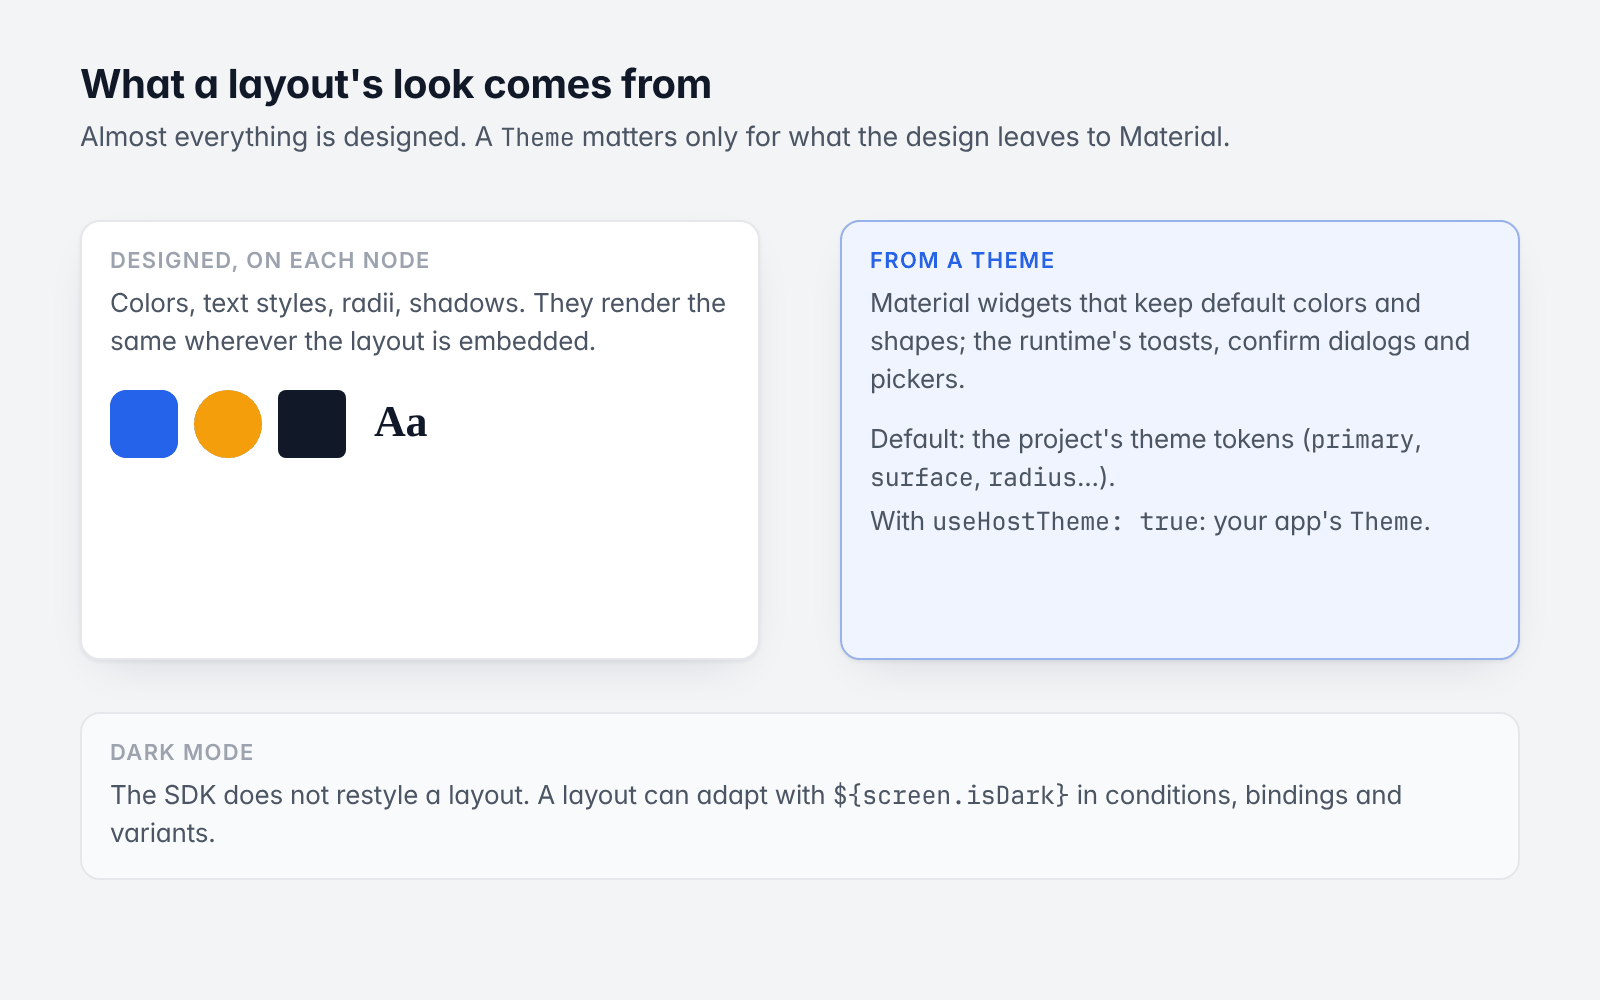
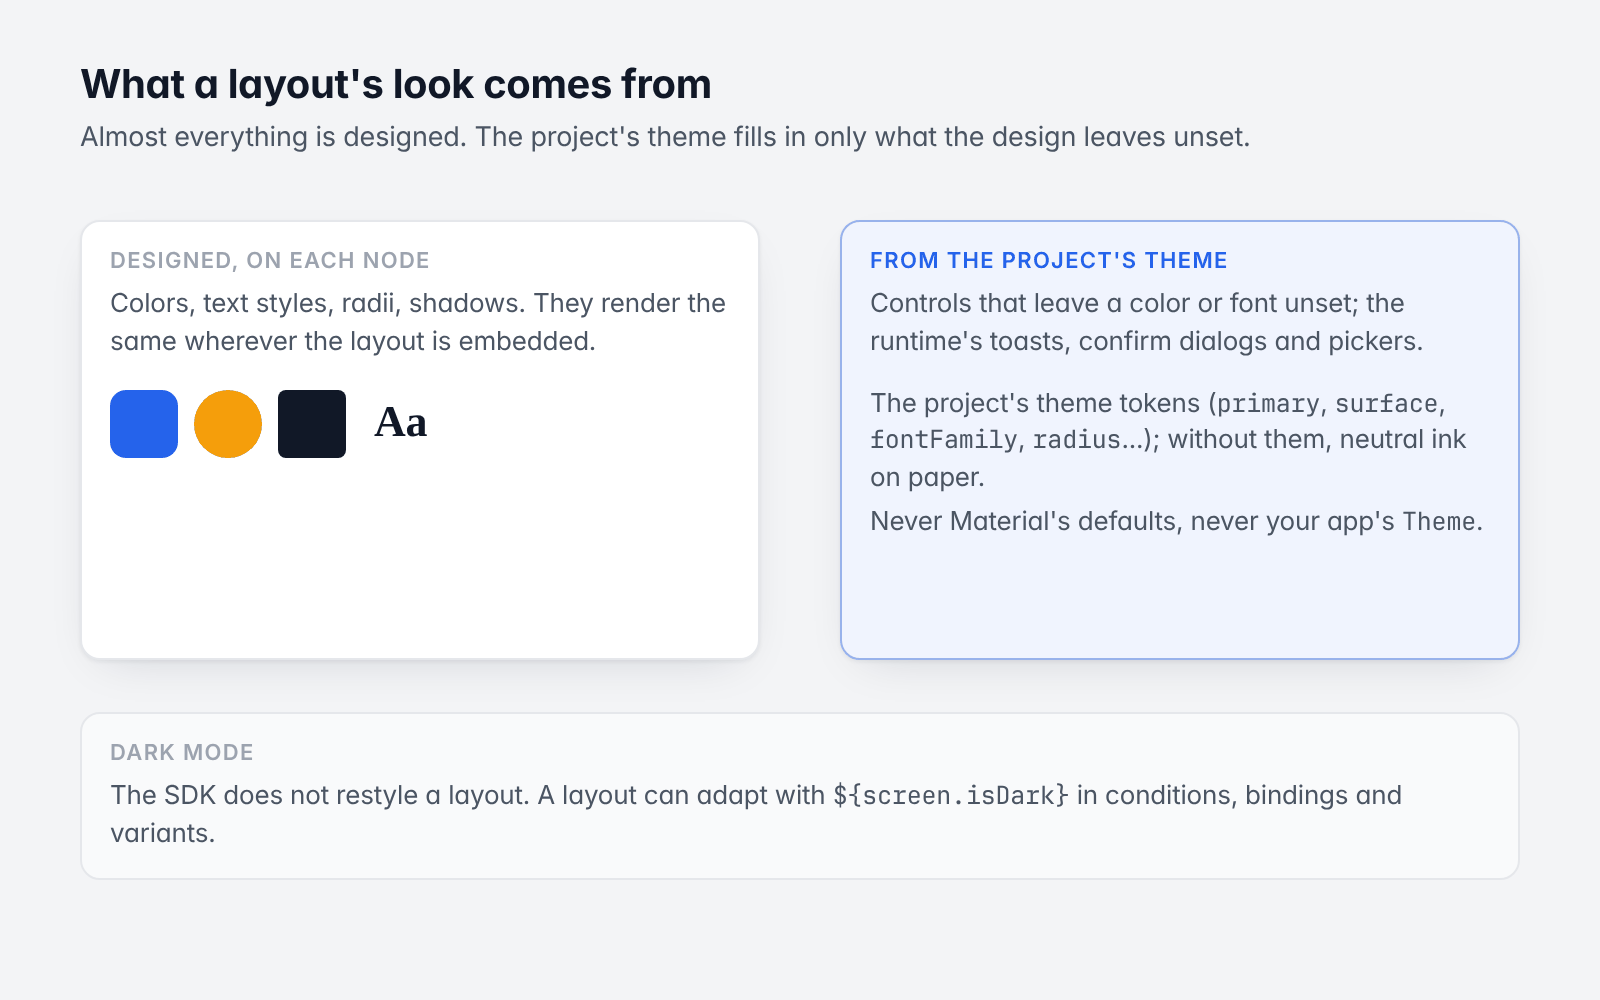
Docs: controls take the project's theme, neutral without one; changelog
Claude-Session: https://claude.ai/code/session_019VxYXZ8BzY8THaUBbQA8TM

Changed region(s): [[0.5312, 0.248, 0.9062, 0.527], [0.2812, 0.124, 0.7812, 0.155]]

diff --git a/docs/guide/images/_scenes/11-theming-and-fonts.html b/docs/guide/images/_scenes/11-theming-and-fonts.html
@@ -6,12 +6,12 @@
 
 <!-- Hero: what a layout's look comes from -->
 <tut-stage name="hero" w="800" h="500" bg="solid">
-  <div class="hd"><div class="t">What a layout's look comes from</div><div class="s">Almost everything is designed. A <span class="m">Theme</span> matters only for what the design leaves to Material.</div></div>
+  <div class="hd"><div class="t">What a layout's look comes from</div><div class="s">Almost everything is designed. The project's theme fills in only what the design leaves unset.</div></div>
   <div class="dn" style="left:40px;top:110px;width:340px;height:220px"><div class="k">Designed, on each node</div><div class="d">Colors, text styles, radii, shadows. They render the same wherever the layout is embedded.</div>
     <div style="display:flex;gap:8px;margin-top:14px"><span style="width:34px;height:34px;border-radius:8px;background:#2563EB"></span><span style="width:34px;height:34px;border-radius:17px;background:#F59E0B"></span><span style="width:34px;height:34px;border-radius:4px;background:#111827"></span><span style="font-size:22px;font-weight:700;font-family:Georgia,serif;margin-left:6px">Aa</span></div></div>
-  <div class="dn blue" style="left:420px;top:110px;width:340px;height:220px"><div class="k">From a Theme</div><div class="d">Material widgets that keep default colors and shapes; the runtime's toasts, confirm dialogs and pickers.</div>
-    <div class="d" style="margin-top:12px">Default: the project's theme tokens (<span class="m">primary</span>, <span class="m">surface</span>, <span class="m">radius</span>...).</div>
-    <div class="d">With <span class="m">useHostTheme: true</span>: your app's <span class="m">Theme</span>.</div></div>
+  <div class="dn blue" style="left:420px;top:110px;width:340px;height:220px"><div class="k">From the project's theme</div><div class="d">Controls that leave a color or font unset; the runtime's toasts, confirm dialogs and pickers.</div>
+    <div class="d" style="margin-top:12px">The project's theme tokens (<span class="m">primary</span>, <span class="m">surface</span>, <span class="m">fontFamily</span>, <span class="m">radius</span>...); without them, neutral ink on paper.</div>
+    <div class="d">Never Material's defaults, never your app's <span class="m">Theme</span>.</div></div>
   <div class="dn gray" style="left:40px;top:356px;width:720px"><div class="k">Dark mode</div><div class="d">The SDK does not restyle a layout. A layout can adapt with <span class="m">${screen.isDark}</span> in conditions, bindings and variants.</div></div>
 </tut-stage>
 

diff --git a/docs/guide/11-theming-and-fonts.md b/docs/guide/11-theming-and-fonts.md
@@ -2,43 +2,51 @@
 
 [Guide](README.md) · Previous: [Scripting](10-scripting.md) · Next: [Custom widgets and extending](12-custom-widgets.md)
 
-![Designed colors, text styles, radii and shadows on each node, versus a Theme for Material defaults and the runtime's own UI](images/11-theming-and-fonts/hero.png)
+![Designed colors, text styles, radii and shadows on each node, versus the project's theme for what the design leaves unset](images/11-theming-and-fonts/hero.png)
 
-*Most of a layout's look is designed; a Theme covers the rest.*
+*Most of a layout's look is designed; the project's theme covers the rest.*
 
 ## What a layout's look comes from
 
 Almost everything you see in a layout is designed: each node carries its own colors, text styles, radii and
-shadows, and renders with them wherever it is embedded. A Flutter `Theme` matters only for what the design leaves
-to Material:
+shadows, and renders with them wherever it is embedded. The project's theme matters only for what the design
+leaves unset:
 
-- Material widgets in the layout that keep default colors and shapes (buttons, switches, text fields, app bars);
-- the runtime's own UI: toasts, confirmation dialogs, date pickers.
+- controls that leave a color, a font or a shape unset (buttons, chips, switches, sliders, text fields,
+  pickers, tabs, navigation bars);
+- the runtime's own UI: toasts, confirmation dialogs, date and time pickers, menus, tooltips.
 
-## The project's theme (default)
+Controls take their colors and fonts from the project's theme. Without a theme they are neutral: ink on paper
+(near-black on white, near-white on near-black in dark mode) and the greys between, in no font family of their
+own. Nothing is inherited from Material's defaults (no purple, no tints, no ripples, no elevation, no Roboto) or
+from your app's `Theme`.
+
+## The project's theme
 
 A project has theme tokens, published with it: `primary`, `onPrimary`, `surface`, `onSurface`, `error`,
-`success`, `warning`, `fontFamily`, `titleFontFamily`, `radius` and `buttonRadius`. By default each
-`CodelesslyWidget` wraps its layout in a `Theme` built from them (Flutter's default `ThemeData` with the tokens
-over it), so a layout looks the same in every app. Your app's theme is not used inside the layout and is not
-changed outside it.
+`success`, `warning`, `fontFamily`, `titleFontFamily`, `radius` and `buttonRadius`. Each `CodelesslyWidget`
+wraps its layout in a `Theme` built from them, where every color role is a token or derived from one:
+
+| Role | From |
+|---|---|
+| surface | `surface`, else paper (white; near-black in dark mode) |
+| text and marks on it | `onSurface` when it reads there (3:1), else ink |
+| what controls draw on the surface (checks, thumbs, text button labels, focus rings) | `primary` when it reads on the surface, else ink |
+| filled buttons, floating action buttons | `primary` as it is (ink without one), labelled in `onPrimary`, else ink or paper, whichever reads |
+| selected tints, outlines, disabled states | `primary` or ink at low strength over the surface |
+| fonts | `fontFamily`; titles `titleFontFamily` |
+| shapes | `buttonRadius` for every kind of button, chip and segmented button; `radius` for dialogs, menus, pickers and the default text field border |
+
+Controls choose their text and marks for what they sit on: an unstyled text button on a dark band of a light
+page is labelled light, and one with a fill of its own but no label color gets one that reads on that fill.
+Nothing splashes or casts a shadow unless a node asks for it (its `elevation`). Your app's theme is not used
+inside the layout and is not changed outside it.
 
 `themeDataOf(tokens)` is that conversion, if you want the same `ThemeData` for your own widgets:
 
 ```dart
 final theme = themeDataOf(codelessly.publishModel!.theme);
 ```
-
-## Your app's theme
-
-```dart
-final codelessly = Codelessly(
-  config: const CodelesslyConfig(slug: 'my-project', useHostTheme: true),
-);
-```
-
-With `useHostTheme`, layouts render inside your app's `Theme`: Material widgets that keep their defaults take your
-color scheme and shapes. Designed colors don't change.
 
 ## The theme in expressions
 
@@ -64,12 +72,11 @@ To see what a layout reads, `themeValues(codelessly.publishModel!.theme, dark: t
 A color style can have a **dark value** beside its light one (published as `ThemeTokens.dark`). In dark mode
 `theme.<role>` and `theme.colors.<key>` give the dark value where a style has one, and the light value
 elsewhere, so a layout bound to the theme needs no conditions for dark mode. A project whose styles have dark
-values also gets a dark Material theme in dark mode (for the runtime's dialogs, toasts and Material defaults);
-one without stays light, as designed.
+values also gets a dark theme in dark mode (for its controls and the runtime's dialogs and toasts); one without
+stays light, as designed.
 
-Which mode: the device's (`MediaQuery.platformBrightness`), or with `useHostTheme` your app's theme's brightness,
-so your app's own dark mode switch applies (`theme.isDark`). `${screen.isDark}` (also `${screen.dark}`) and
-`${screen.brightness}` are always the device's. Nodes whose colors are fixed values don't change with the mode;
+Which mode: the device's (`MediaQuery.platformBrightness`, `theme.isDark`), never your app's theme's.
+`${screen.isDark}` (also `${screen.dark}`) and `${screen.brightness}` are the device's too. Nodes whose colors are fixed values don't change with the mode;
 bind them to the theme, or use `screen.isDark` / `theme.isDark` in conditions and variants.
 
 ## Fonts

diff --git a/CHANGELOG.md b/CHANGELOG.md
@@ -6,6 +6,36 @@ loading, read as they are: one written with 30.0.0's spellings of a node's scale
 stroke path, a box drawn as a path or per-shape paints must be updated (codelessly_api's changelog has the
 mapping; a schema-2 document is migrated to the one spelling when it loads).
 
+- **No Material defaults reach the screen.** Controls (the Material islands: buttons, chips, fields, switches,
+  sliders, pickers, tabs, navigation bars, progress) and the runtime's chrome (dialogs, toasts, sheets, menus,
+  tooltips, date and time pickers) take every color and font their node leaves unset from one theme,
+  `themeDataOf(tokens)` (lib/src/render/control_theme.dart): every `ColorScheme` role is a token or derived from
+  one, and without a theme the set is neutral (`kInk` near-black on `kPaper` white; near-white on `kPaperDark`
+  in dark mode; greys between). No purple seed, no tints (`surfaceTint` transparent), no splashes
+  (`NoSplash`), no elevation unless a node sets one, and text in the tokens' `fontFamily` (`titleFontFamily` for
+  titles) or no family at all, never Roboto. A token `primary` that doesn't read on the surface (3:1) gives way to
+  the surface's ink for what controls draw on it; filled buttons and floating action buttons keep it as their
+  fill. `buttonRadius` shapes every kind of button, chip and segmented button; `radius` dialogs, menus, pickers
+  and (when set) the default text field border.
+- **Controls read what they sit on.** Each island's theme is made for the surface under it (the node's and its
+  ancestors' fills, `ControlTheme`): an unstyled text, outlined or icon button, a check or a thumb on a dark band of
+  a light page is drawn light. A button, floating action button or chip with a fill of its own but no label color
+  is labelled in ink or paper, whichever reads on it; a button's `style.textStyle.color` is its label color when
+  `foregroundColor` is unset (Flutter drew the theme's over it). Labels Flutter dropped the color of (a chip's, a
+  navigation bar's, an input's text in a style of its own) are in the theme's ink instead of white.
+- **The icon button is a plain button** (a `TextButton` around the glyph): no raised lavender tile. A tonal
+  filled button is the theme's selected tint. An unset divider is the theme's faint outline over what it's drawn
+  on, an unset badge the theme's error color, an unset activity indicator the theme's muted ink.
+- **Breaking: `CodelesslyConfig.useHostTheme` is removed.** Layouts never render with the app's `Theme`; the mode
+  is always the device's. Islands hosted outside a `CodelesslyWidget` (a `NodeView` in an app) get the neutral
+  theme, not the app's. The runtime's dialogs, toasts and sheets open from inside the layout's theme (they opened
+  from above it, so they took the app's), and the confirm dialog's and toast's buttons, the pickers and their
+  `pickerTheme` start from the layout's look (`ResolvedFeedbackTheme.themeData`; `apply(ThemeData)` and the
+  inputs' `ColorScheme.fromSeed` are gone). A `FeedbackTheme` in the app's `ThemeData.extensions` no longer reaches
+  a layout. `themeDataOf` takes an optional `surface`; `kInk`, `kInkOnDark`, `kPaper`, `kPaperDark` are exported.
+- **Guard:** test/app/no_material_look_test.dart renders every control type of the inputs, material, collections
+  and indicators groups unstyled, with no theme and with a brand theme, light and dark, and fails on any pixel of
+  Material 3's baseline palette, on a ripple when a button is pressed, or on a control text not in the theme's font.
 - **A node's scale and rotation are its motion.** The chain's own `scale` layer and the `RenderTransform` of
   `layout.rotation` are gone: `RenderMotion` draws `motion.scale` and `motion.rotate` (the migration keeps
   30.0.0's rotation pivot, moved by half an uneven margin, as a translation). A state style that moves a node
